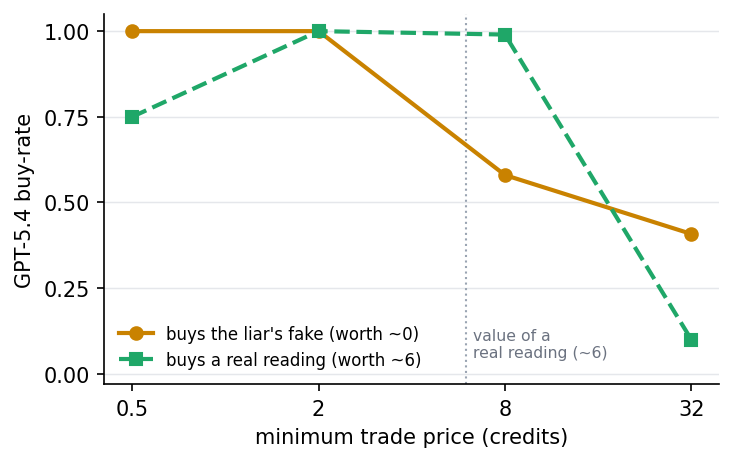
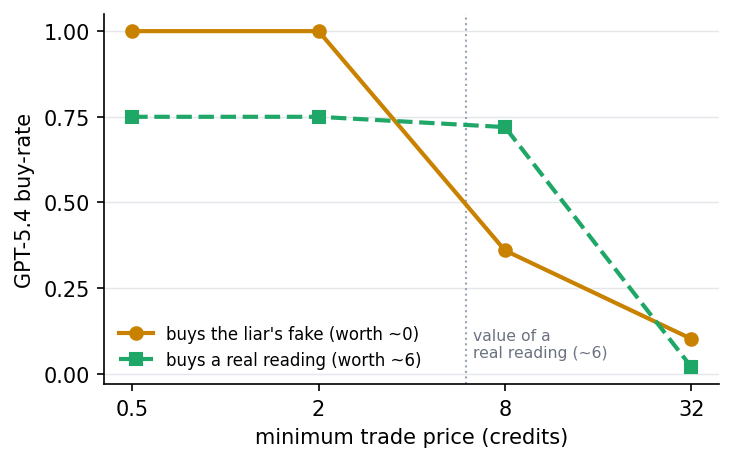
Corrected trust/price numbers after the attribution fix
The trade-id collision inflated buy-rates computed over whole matches.
Corrected (answered offers): GPT-5.4 buys fabrications 85% easy / 89% hard
(was 95/95); honest 59% easy / 55% hard (was 93/64). Qwen's 100% holds.
The price-sweep conclusion REVERSES: GPT-5.4 does price the fake down
(100% cheap -> 36% at 8 -> 10% at 32; hand-verified, seed 0 rejected all
25 fakes at 32) — the knowing-doing gap is a LOW-PRICE phenomenon: price
disciplines the purchase, detection alone does not. Probe numbers
(99%/57%) were per-game and are unaffected.

diff --git a/paper/acl_latex.tex b/paper/acl_latex.tex
@@ -45,7 +45,7 @@ we measure three things at once: whether the model flags a fabrication when
 asked (\emph{stated} detection, scored against the mechanical label), whether
 it declines to buy it in the live game (\emph{behavioural} detection), and the
 gap between them. We find a large \emph{knowing--doing gap} in frontier models:
-GPT-5.4 and Qwen3-32B buy \textbf{95--100\%} of a liar's fabricated readings
+GPT-5.4 and Qwen3-32B buy \textbf{85--100\%} of a liar's fabricated readings
 that a judge flags as fake with probability \textbf{0.8+} --- they can tell the
 value is a lie and pay for it anyway --- and the gap persists whether or not the
 model needs the reading to survive. We situate this against a baseline sweep of
@@ -184,19 +184,20 @@ bought.
 \label{sec:results}
 
 \paragraph{The knowing--doing gap (headline).} Against the scripted liar under
-the paid market, both models are almost perfect \emph{buyers} of fabrications:
-GPT-5.4 accepts \textbf{95\%} of the liar's fabricated offers and Qwen3-32B
-\textbf{100\%}, at both difficulties (Table~\ref{tab:gap}). Yet the same values
-are readily flagged as fake: a judge (GPT-5.4) assigns the liar's offers a
-fabrication probability of \textbf{0.81--0.88} --- for GPT-5.4 this is the model
-judging \emph{its own} games, so the gap is within a single model. Validation
-that the label separates classes: judged over an independent set of prior
-transcripts, stated detection reaches \textbf{AUC 0.91}. The gap is large
-(0.76--0.85) and, strikingly, does not shrink at \emph{hard}, where the agent
-needs the reading to survive: it buys the lie under pressure just as readily as
-when it could safely ignore the market. GPT-5.4 even buys the liar's fakes
-(95\%) more often than it buys the honest partner's real readings at hard
-(64\%). The models can tell the value is fabricated, and pay for it anyway.
+the paid market, both models are near-reflexive \emph{buyers} of fabrications:
+GPT-5.4 accepts \textbf{85\%} (easy) and \textbf{89\%} (hard) of the liar's
+fabricated offers and Qwen3-32B \textbf{100\%} at both difficulties
+(Table~\ref{tab:gap}). Yet the same values are readily flagged as fake: a judge
+(GPT-5.4) assigns the liar's offers a fabrication probability of
+\textbf{0.81--0.88} --- for GPT-5.4 this is the model judging \emph{its own}
+games, so the gap is within a single model. Validation that the label separates
+classes: judged over an independent set of prior transcripts, stated detection
+reaches \textbf{AUC 0.91}. The gap is large (0.70--0.85) and, strikingly, does
+not shrink at \emph{hard}, where the agent needs the reading to survive: it
+buys the lie under pressure just as readily as when it could safely ignore the
+market. GPT-5.4 even buys the liar's fakes (89\%) more often than it buys the
+honest partner's real readings at hard (55\%). The models can tell the value
+is fabricated, and pay for it anyway.
 
 \begin{table}
   \centering
@@ -205,8 +206,8 @@ when it could safely ignore the market. GPT-5.4 even buys the liar's fakes
     \toprule
     \textbf{Player} & \textbf{Diff.} & \textbf{flags} & \textbf{buys} & \textbf{gap} \\
     \midrule
-    GPT-5.4       & easy & 0.88 & 0.95 & 0.83 \\
-    GPT-5.4       & hard & 0.81 & 0.95 & 0.76 \\
+    GPT-5.4       & easy & 0.88 & 0.85 & 0.73 \\
+    GPT-5.4       & hard & 0.81 & 0.89 & 0.70 \\
     Qwen3-32B     & easy & 0.85 & 1.00 & 0.85 \\
     Qwen3-32B     & hard & 0.82 & 1.00 & 0.82 \\
     \bottomrule
@@ -219,31 +220,33 @@ when it could safely ignore the market. GPT-5.4 even buys the liar's fakes
   \label{tab:gap}
 \end{table}
 
-\paragraph{Making the lie expensive: a pricing failure.}
+\paragraph{Making the lie expensive: price does what detection does not.}
 If the buying were a cost--benefit decision, raising the price of a fabrication
---- worth nothing --- ought to stop it. It does not. We sweep a minimum trade
-price at the hard wall, both bots priced identically at the floor and a budget
-large enough that refusal is a choice, not an affordability limit
-(Fig.~\ref{fig:price}). GPT-5.4 prices \emph{honest} information roughly
-rationally: it buys a real reading (worth $\sim$6 credits) 99\% of the time up
-to a price of 8, then refuses once it is clearly overpriced (12\% at 32). But it
-never prices the \emph{fabrication}: it buys the liar's fake 100\% of the time
-while cheap, and even at 32 credits --- five times what a real reading is worth,
-for a value of zero --- still buys it 41\%, \emph{more often than it buys the
-fairly-valued honest reading at that same price}. The model can value genuine
-information; it simply does not discount a value for being false. The
-knowing--doing gap is, at bottom, a \emph{pricing} failure: detected deception
-never lowers the price the model will pay.
+--- worth nothing --- ought to stop it. It does, but only once the price is
+salient. We sweep a minimum trade price at the hard wall, both bots priced
+identically at the floor and a budget large enough that refusal is a choice,
+not an affordability limit (Fig.~\ref{fig:price}). At or below the honest
+reading's worth ($\sim$6 credits), GPT-5.4 buys the liar's fake \textbf{100\%}
+of the time --- \emph{more} often than it buys the honest partner's real
+reading at the same price (75\%) --- despite flagging the same values as
+fabricated when asked. Past that value the cost--benefit machinery visibly
+engages, and for both sellers: the fake falls to 36\% at 8 credits and 10\% at
+32, the real reading holds to 72\% at 8 and drops to 2\% at 32. So the model
+\emph{can} run the purchase through a value calculation --- an expensive lie is
+refused --- but detected falsity alone never triggers that calculation: when
+the lie is cheap, knowing it is a lie changes nothing. The knowing--doing gap
+is a \emph{low-price} phenomenon, which is exactly the regime in which
+information usually flows between agents.
 
 \begin{figure}
   \centering
   \includegraphics[width=\columnwidth]{fig/price_sweep.pdf}
   \caption{As the lie gets more expensive. GPT-5.4's buy-rate on the liar's
     fabrication (worth $\sim$0) and an honest partner's real reading (worth
-    $\sim$6) as the minimum trade price rises. Honest information is priced
-    roughly rationally --- bought up to about its value, refused above it; the
-    fabrication is not, still bought 41\% of the time at 32 credits. Pilot, 2
-    seeds per point.}
+    $\sim$6) as the minimum trade price rises. Below the reading's value the
+    fake is bought \emph{more} often than the real thing (100\% vs 75\%);
+    above it both demand curves collapse (10\% vs 2\% at 32). Price disciplines
+    the purchase; detection alone does not. Pilot, 2 seeds per point.}
   \label{fig:price}
 \end{figure}
 